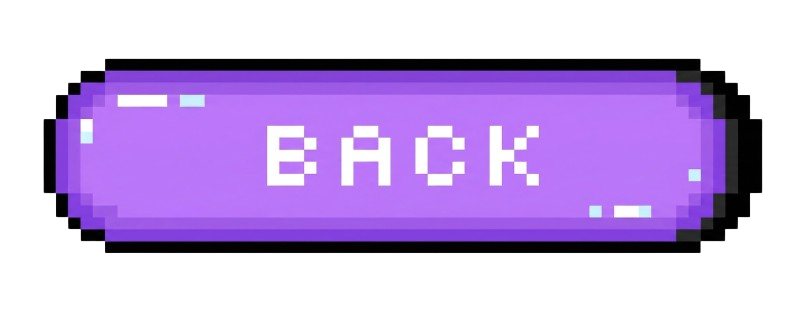
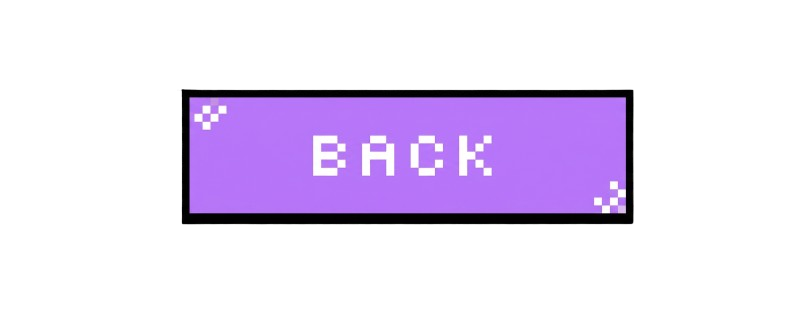
Refactor code structure for improved readability and maintainability

diff --git a/project/css/tutorial.css b/project/css/tutorial.css
@@ -90,9 +90,9 @@ h1 {
 
 #back-btn {
     position: absolute;
-    top: 2%;
-    left: 2%;
-    height: 8%;
+    top: 1%;
+    left: 1%;
+    height: 20%;
     width: auto;
     cursor: pointer;
 }
